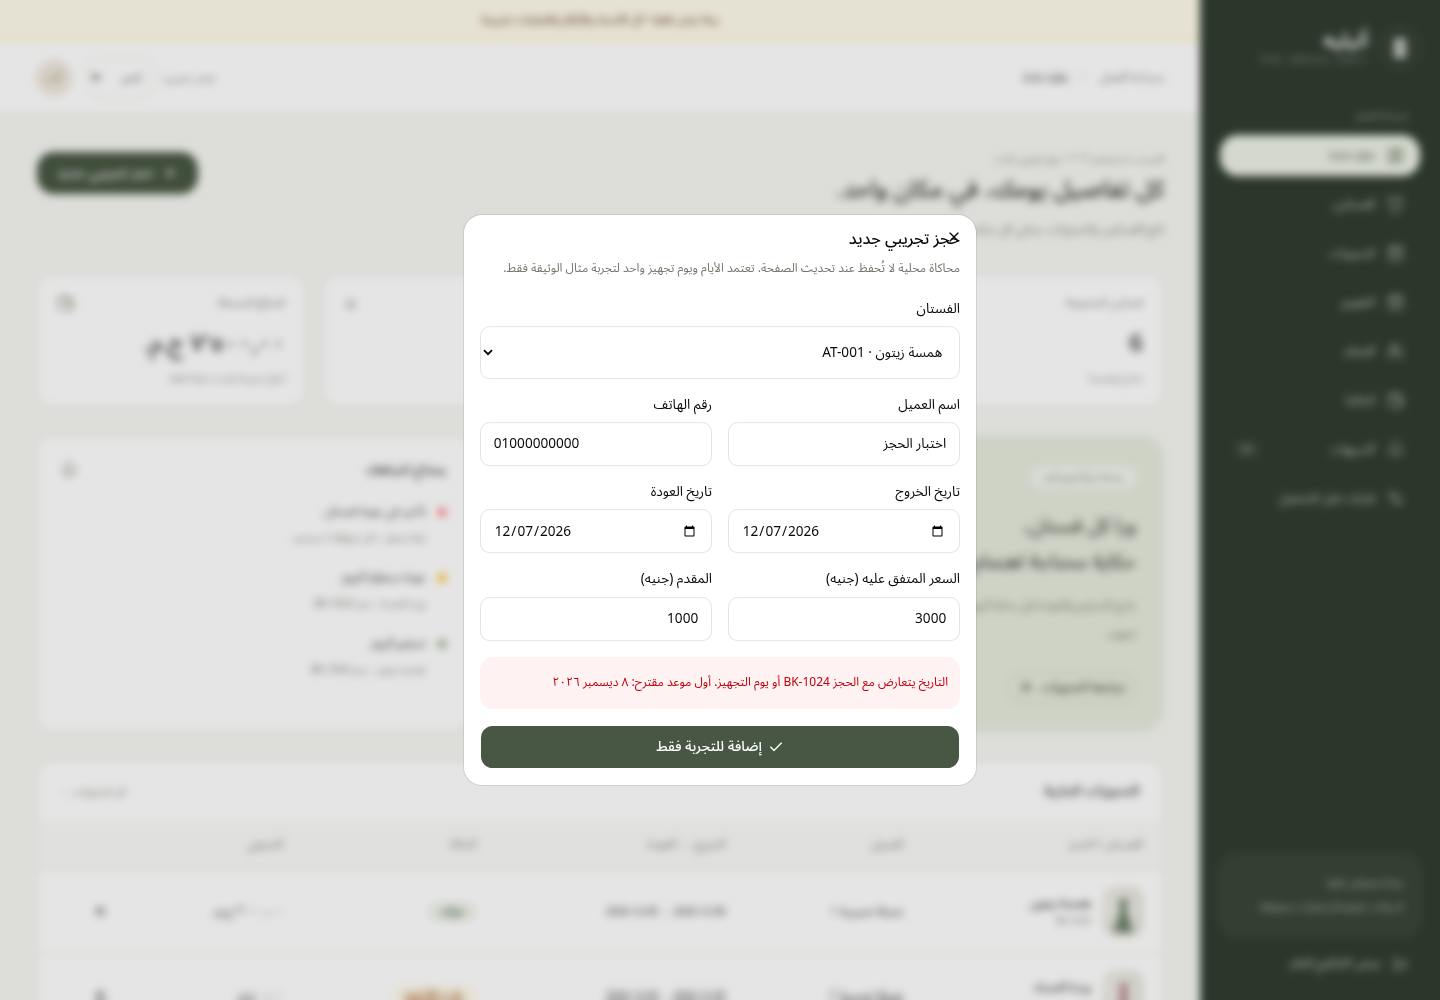
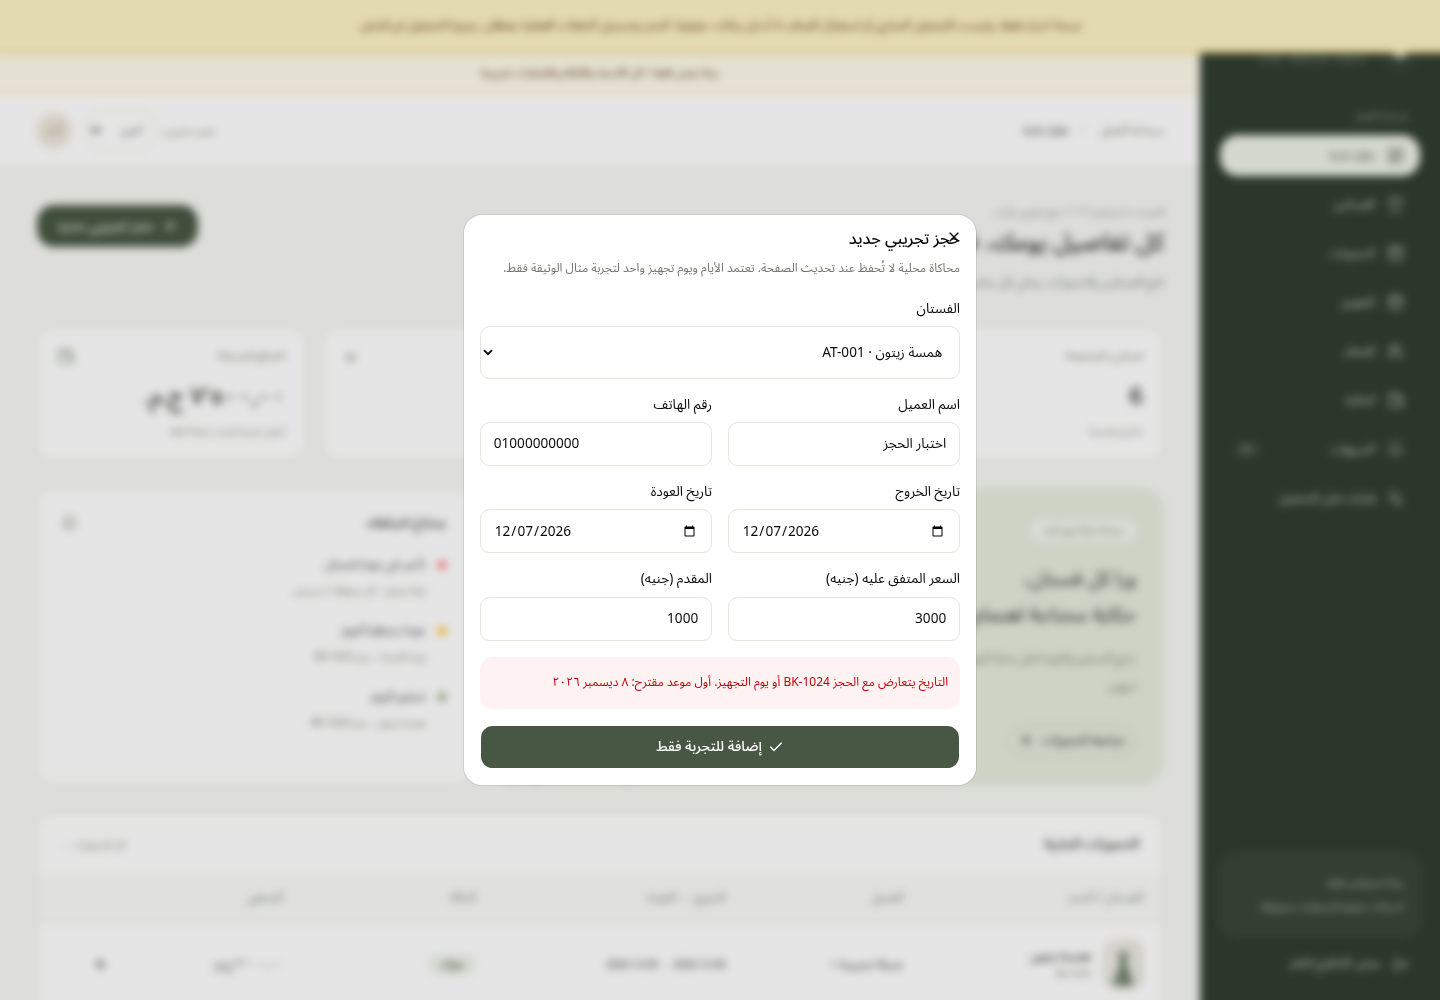
Add fail-closed non-operational prototype mode v0.7.0

diff --git a/src/app/layout.tsx b/src/app/layout.tsx
@@ -1,3 +1,4 @@
+import { prototypeEnabled } from "@/lib/prototype";
 import type { Metadata } from "next";
 import { Noto_Sans_Arabic } from "next/font/google";
 import { Toaster } from "@/components/ui/sonner";
@@ -7,6 +8,9 @@ const arabic = Noto_Sans_Arabic({
   variable: "--font-arabic",
 });
 export const metadata: Metadata = {
+  robots: prototypeEnabled()
+    ? { index: false, follow: false }
+    : { index: true, follow: true },
   title: "أتيليه | حكاية كل فستان",
   description: "كتالوج الفساتين ومساحة إدارة الأتيليه",
 };
@@ -18,6 +22,17 @@ export default function RootLayout({
   return (
     <html lang="ar" dir="rtl" className={arabic.variable}>
       <body>
+        {prototypeEnabled() && (
+          <aside
+            role="note"
+            aria-label="نسخة اختبار فقط"
+            className="sticky top-0 z-50 border-b border-amber-300 bg-amber-100 px-5 py-3 text-center text-xs leading-7 text-amber-950 shadow-sm"
+          >
+            نسخة اختبار فقط، وليست للتشغيل التجاري أو استقبال العملاء. لا تُدخل
+            بيانات حقيقية. الحجز وتسجيل الدفعات الفعلية معطلان، ودورة التشغيل لم
+            تكتمل.
+          </aside>
+        )}
         {children}
         <Toaster dir="rtl" position="top-center" richColors />
       </body>

diff --git a/src/app/actions.ts b/src/app/actions.ts
@@ -1,4 +1,5 @@
 "use server";
+import { prototypeEnabled } from "@/lib/prototype";
 import { redirect } from "next/navigation";
 import { revalidatePath } from "next/cache";
 import { z } from "zod";
@@ -249,6 +250,10 @@ export async function createRealBooking(
   form: FormData,
 ): Promise<ActionState> {
   const { db } = await requireStaff();
+  if (prototypeEnabled())
+    return {
+      error: "هذه نسخة اختبار فقط. تسجيل الحجوزات والدفعات الفعلية معطل.",
+    };
   const parsed = z
     .object({
       request_id: z.uuid(),
@@ -357,6 +362,10 @@ export async function recordRealPayment(
   form: FormData,
 ): Promise<ActionState> {
   const { db } = await requireStaff();
+  if (prototypeEnabled())
+    return {
+      error: "هذه نسخة اختبار فقط. تسجيل الحجوزات والدفعات الفعلية معطل.",
+    };
   const parsed = z
     .object({
       request_id: z.uuid(),

diff --git a/src/lib/booking-config.ts b/src/lib/booking-config.ts
@@ -1,3 +1,4 @@
+import { prototypeEnabled } from "./prototype";
 import "server-only";
 import { z } from "zod";
 import type { supabaseServer } from "./supabase/server";
@@ -20,6 +21,7 @@ export async function getBookingConfig(
 }
 export function bookingConfigReady(c: BookingConfig | null) {
   return !!(
+    !prototypeEnabled() &&
     c?.live_bookings_enabled &&
     c.date_precision === "day" &&
     c.business_timezone === "Africa/Cairo" &&

diff --git a/tests/e2e/app.spec.ts b/tests/e2e/app.spec.ts
@@ -269,6 +269,9 @@ test("admin summary has explicit money definitions and remains protected", async
   await page.setViewportSize({ width: 1440, height: 1000 });
   await page.goto("/demo/admin");
   await expect(
+    page.getByRole("note", { name: "نسخة اختبار فقط" }),
+  ).toBeVisible();
+  await expect(
     page.getByRole("heading", { name: "لوحة الأدمن" }),
   ).toBeVisible();
   await expect(

diff --git a/tests/prototype.test.ts b/tests/prototype.test.ts
@@ -1,0 +1,9 @@
+import test from "node:test";
+import assert from "node:assert/strict";
+import { prototypeEnabled } from "../src/lib/prototype";
+test("prototype guard is enabled unless explicitly disabled", () => {
+  assert.equal(prototypeEnabled("true"), true);
+  assert.equal(prototypeEnabled(""), true);
+  assert.equal(prototypeEnabled("typo"), true);
+  assert.equal(prototypeEnabled("false"), false);
+});

diff --git a/src/lib/prototype.ts b/src/lib/prototype.ts
@@ -1,0 +1,4 @@
+// Fail closed: only an explicit false removes the prototype guard.
+export function prototypeEnabled(value = process.env.ATELIER_PROTOTYPE_MODE) {
+  return value !== "false";
+}

diff --git a/README.md b/README.md
@@ -1,6 +1,6 @@
 # أتيليه | Next.js + Tailwind + Supabase + shadcn/ui
 
-نسخة تأسيسية قابلة للتشغيل، إصدار 0.6.0، مبنية من الصفر على وثيقة متطلبات أتيليه وتأجير فساتين بتاريخ 21 نوفمبر 2026.
+نسخة تأسيسية قابلة للتشغيل، إصدار 0.7.0، مبنية من الصفر على وثيقة متطلبات أتيليه وتأجير فساتين بتاريخ 21 نوفمبر 2026.
 
 **هذه مرحلة أولى، وليست نظام إنتاج مكتملًا.** لا تستخدم بيانات عملاء أو مدفوعات حقيقية قبل استكمال الربط والسياسات واختبارات القبول. لا يوجد نشر أو مشروع Supabase مُنشأ ضمن هذه الحزمة.
 
@@ -123,3 +123,9 @@ npm run test:e2e
 لوحة أدمن حقيقية في `/workspace/dashboard`، بقراءة مجمعة من القاعدة لا حسابات تجريبية في المتصفح. المهاجرة الخامسة تضيف دالة للأدمن فقط، ترفض الموظف والزائر حتى بالوصول المباشر. الفترات بتواريخ مصر وتصل إلى ٣٦٦ يومًا. تعرض المبالغ المستلمة المسجلة في الفترة والغرامات المضافة والمتبقي الحالي على الحجوزات غير الملغاة، مع تعريف منفصل لكل رقم. لا تُسمّى المتحصلات ربحًا أو صافي إيراد، ولا يُفترض أن الغرامة أُحصّلت. التلخيص المالي لا يفعّل الحجز ولا ينشئ أي سجل.
 
 مؤشرات المخزون والحجوزات والحالات والموظفين من السجل. أي تعذر في قراءة القاعدة يظهر خطأ، لا أرقام معاينة بديلة. المعاينة المصطنعة المنفصلة في `/demo/admin`. مركز الإشعارات الدائم والتقارير المفصلة والتصدير وباقي دورة التشغيل ما زالت ضمن المطلوب ولم تكتمل بهذه اللوحة.
+
+## وضع النموذج الاختباري
+
+اضبط `ATELIER_PROTOTYPE_MODE=true` في بيئة البناء والتشغيل معًا. يظهر تحذير ثابت في كل الصفحات بأن النسخة اختبار فقط وغير مكتملة وغير مخصصة للتشغيل التجاري أو استقبال العملاء. يمنع هذا الوضع حفظ الحجوزات والدفعات في إجراءات الخادم، حتى لو تغير إعداد القاعدة بالخطأ. احتفظ أيضًا بـ `live_bookings_enabled=false`، ولا تدخل أسماء أو هواتف أو معاملات فعلية. هذا الوضع ليس بديلًا عن حماية كل روابط النشر والتحقق من شروط خطة الاستضافة. لا يُرفع القيد للتشغيل التجاري دون استكمال الدورة والاختبارات والقرارات والاشتراك الملائم.
+
+وضع الاختبار هو الافتراضي الآمن إذا غاب المتغير أو كُتب بشكل غير صحيح. القيمة الصريحة `false` وحدها تزيل قيد النموذج الاختباري؛ لا تستخدمها في نشر هذه النسخة التجريبية.

diff --git a/docs/VERIFICATION.md b/docs/VERIFICATION.md
@@ -85,3 +85,9 @@ Inventory action-state ownership remains stable across a version refresh; form D
 Migration 5 provides an admin-only aggregate RPC. No row limit is used to approximate financial totals. The UI separates period receipt totals/added fee totals from all-date current outstanding amounts and operational status counts. It does not claim net revenue or profit. Amount aggregates cross the JSON boundary as integer-piaster strings and are formatted with BigInt, including a test above JavaScript's safe-number limit.
 
 The local PostgreSQL suite passes 40 checks, including employee denial, anonymous function-execute denial, actual aggregate reconciliation, invalid period denial and a Cairo-versus-UTC midnight boundary check. Twenty-one unit tests, eight Chrome scenarios, lint, typecheck and production build pass. Both dashboard previews including the actual shared period-filter layout are visually inspected on desktop/mobile. This does not replace live project acceptance for migration 5 or dashboard/period role checks. Saved notification read-state, handover/return, refunds and account management are still incomplete.
+
+## Prototype guard update 0.7.0
+
+A sticky non-operational test notice appears on every route. Prototype mode is fail-closed unless explicitly set false. It blocks booking/payment server actions and their enabled state, and sets noindex/nofollow metadata. Neither a banner nor noindex is access control; the deployment owner must verify protection on every deployment URL before exposure. The database booking gate must stay false and no real customer or financial data should be entered. Build and runtime environment settings must match.
+
+Twenty-two unit tests and the eight-scenario browser run pass with prototype mode enabled, along with lint, typecheck and production build. Schema is unchanged from v0.6.0. This is prototype readiness work, not a hosting-terms conclusion or complete-MVP acceptance.
